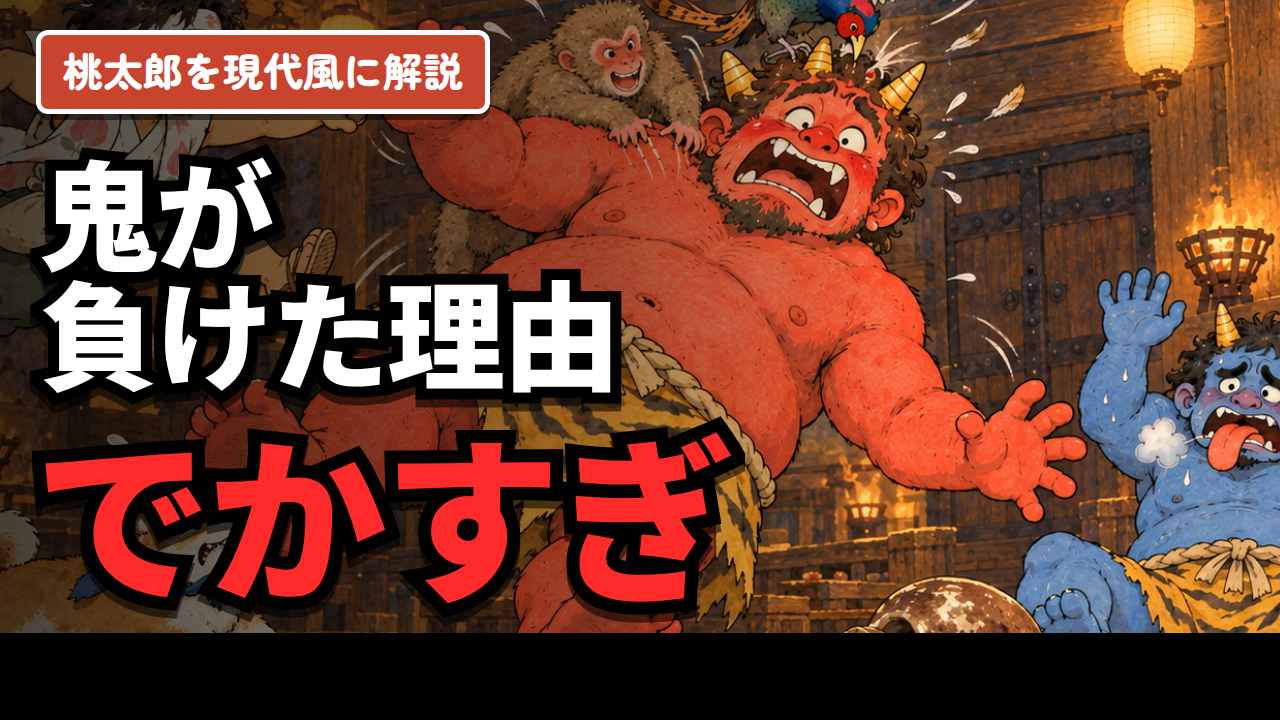
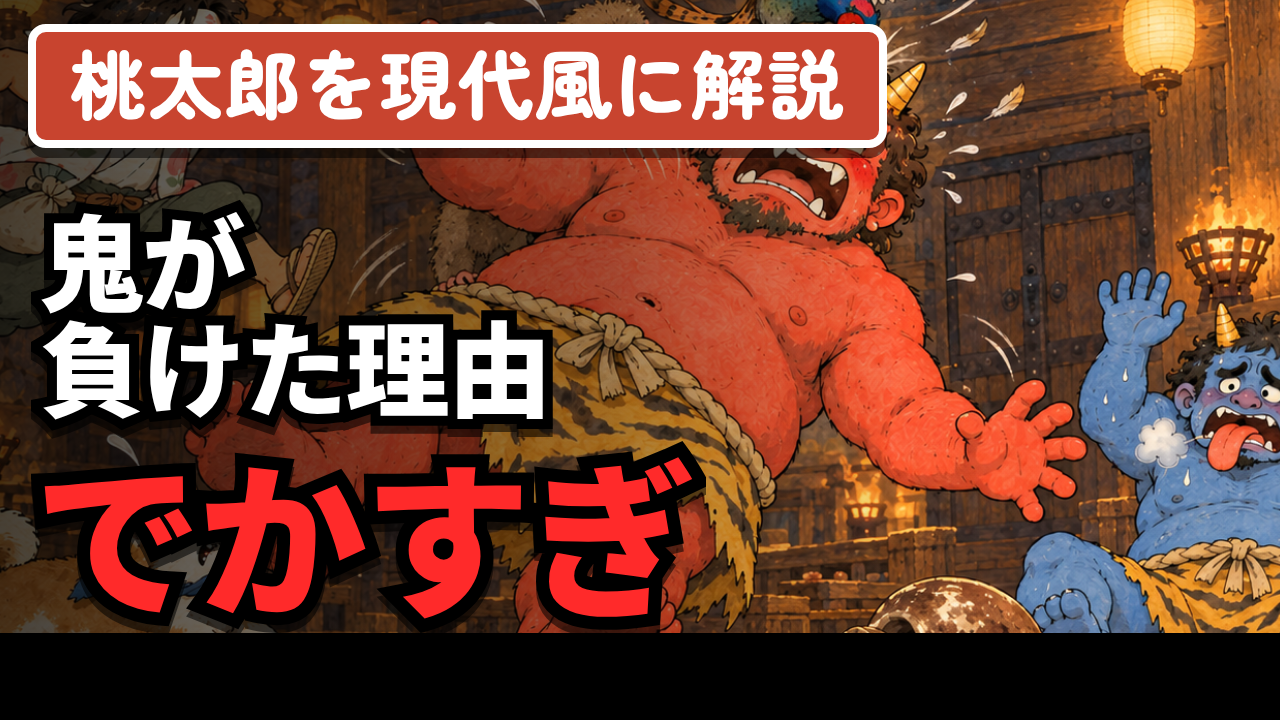
Momotaro thumbnails: much larger series tag, relayout text
Claude-Session: https://claude.ai/code/session_017i6jPSgVW93T5N66avXQym

Changed region(s): [[0.0, 0.0306, 0.7188, 0.8861]]

diff --git a/shorts/series_mukashi/make_thumb.py b/shorts/series_mukashi/make_thumb.py
@@ -27,8 +27,9 @@ html,body{width:1280px;height:720px;overflow:hidden;background:#000}
 .t{position:absolute;font-family:Noto,sans-serif;font-weight:900;line-height:1.02;letter-spacing:-.02em;
   paint-order:stroke fill;-webkit-text-stroke:var(--sw) #000;filter:drop-shadow(0 8px 0 rgba(0,0,0,.55))}
 .w{color:#fff}.y{color:#ffe600}.r{color:#ff2a2a}
-.tag{position:absolute;left:36px;top:30px;background:#c8442f;color:#fff;font-family:Maru,sans-serif;font-weight:900;
-  font-size:40px;padding:6px 22px 10px;border-radius:12px;border:5px solid #fff;box-shadow:0 6px 0 rgba(0,0,0,.45)}
+.tag{position:absolute;left:28px;top:24px;background:#c8442f;color:#fff;font-family:Maru,sans-serif;font-weight:900;
+  font-size:76px;line-height:1.1;padding:8px 34px 16px;border-radius:18px;border:8px solid #fff;
+  box-shadow:0 10px 0 rgba(0,0,0,.5);letter-spacing:.02em}
 </style></head><body><div class="bg"></div><div class="shade"></div>
 <div class="tag">TAG</div>BODY</body></html>"""
 
@@ -37,19 +38,19 @@ T = {
     "a": dict(img="scene_battle.png", pos="62% 40%", zoom="135%",
               shade="linear-gradient(90deg,rgba(0,0,0,.72) 0%,rgba(0,0,0,.35) 48%,rgba(0,0,0,0) 70%)",
               tag="桃太郎を現代風に解説",
-              body='<div class="t w" style="--sw:22px;left:40px;top:150px;font-size:118px">鬼が<br>負けた理由</div>'
-                   '<div class="t r" style="--sw:26px;left:34px;top:420px;font-size:178px">でかすぎ</div>'),
+              body='<div class="t w" style="--sw:20px;left:40px;top:205px;font-size:104px">鬼が<br>負けた理由</div>'
+                   '<div class="t r" style="--sw:26px;left:34px;top:445px;font-size:168px">でかすぎ</div>'),
     "b": dict(img="scene_river.png", pos="55% 62%", zoom="150%",
               shade="linear-gradient(0deg,rgba(0,0,0,.65) 0%,rgba(0,0,0,0) 45%),linear-gradient(90deg,rgba(0,0,0,.55) 0%,rgba(0,0,0,0) 45%)",
               tag="桃太郎を現代風に解説",
-              body='<div class="t w" style="--sw:20px;left:40px;top:140px;font-size:104px">桃太郎の桃</div>'
-                   '<div class="t y" style="--sw:26px;left:30px;top:270px;font-size:230px">250kg</div>'
-                   '<div class="t w" style="--sw:16px;left:44px;top:560px;font-size:70px">おばあさん、持てません</div>'),
-    "c": dict(img="scene_road.png", pos="30% 55%", zoom="160%",
+              body='<div class="t w" style="--sw:20px;left:40px;top:200px;font-size:96px">桃太郎の桃</div>'
+                   '<div class="t y" style="--sw:26px;left:30px;top:295px;font-size:190px">250kg</div>'
+                   '<div class="t w" style="--sw:16px;left:44px;top:540px;font-size:64px">おばあさん、持てません</div>'),
+    "c": dict(img="scene_road.png", pos="30% 5%", zoom="160%",
               shade="linear-gradient(270deg,rgba(0,0,0,.72) 0%,rgba(0,0,0,.3) 45%,rgba(0,0,0,0) 65%)",
               tag="桃太郎を現代風に解説",
-              body='<div class="t w" style="--sw:20px;right:40px;top:150px;font-size:100px;text-align:right">報酬<br>だんご1個</div>'
-                   '<div class="t r" style="--sw:24px;right:34px;top:420px;font-size:150px;text-align:right">ブラック</div>'),
+              body='<div class="t w" style="--sw:20px;right:40px;top:210px;font-size:96px;text-align:right">報酬<br>だんご1個</div>'
+                   '<div class="t r" style="--sw:24px;right:34px;top:450px;font-size:150px;text-align:right">ブラック</div>'),
 }
 
 
